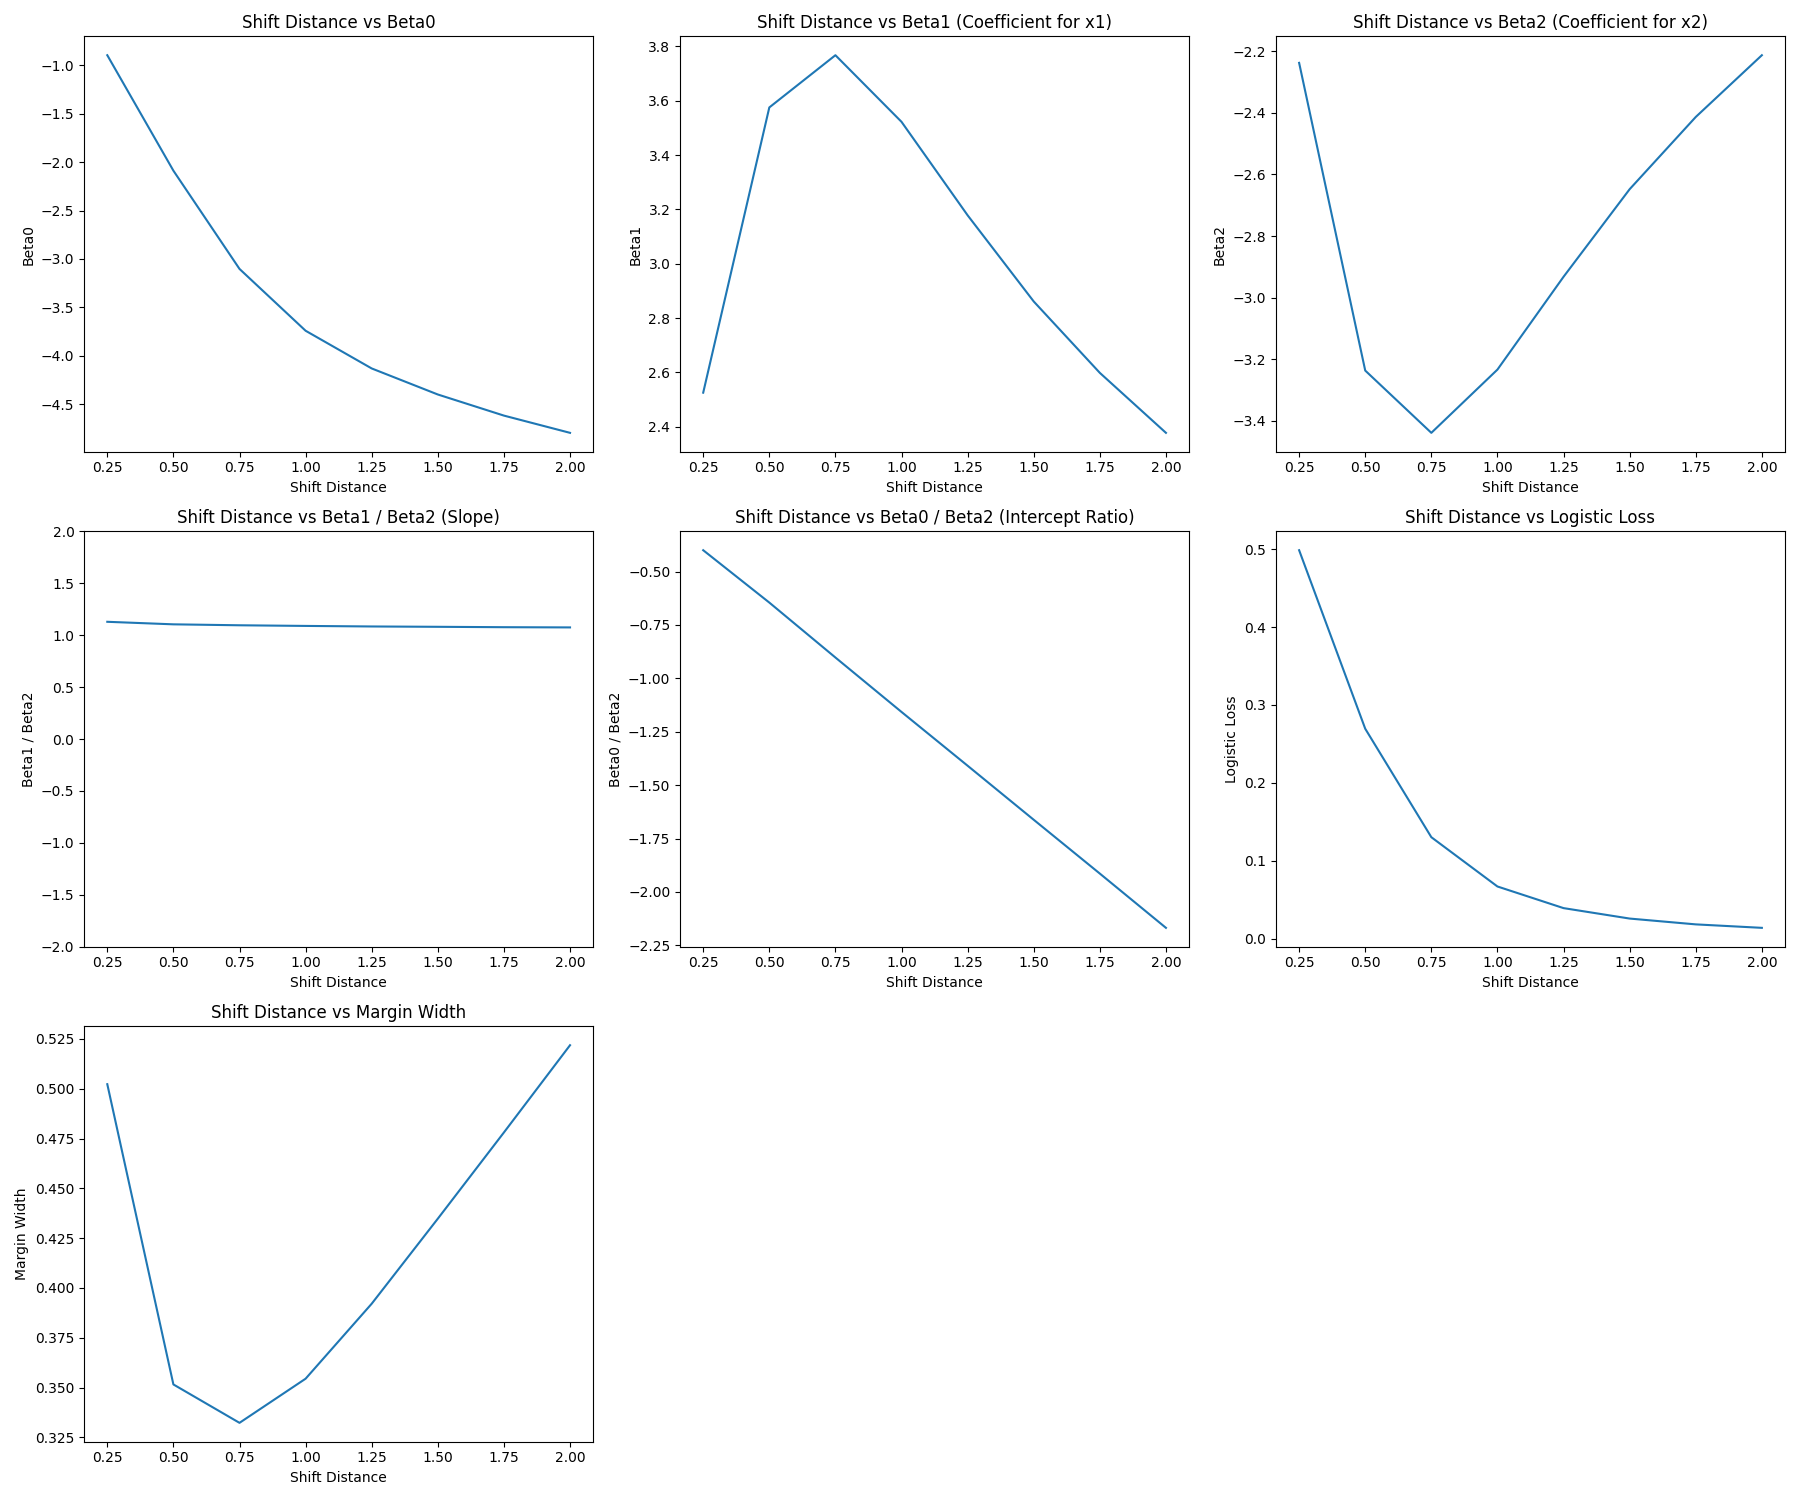
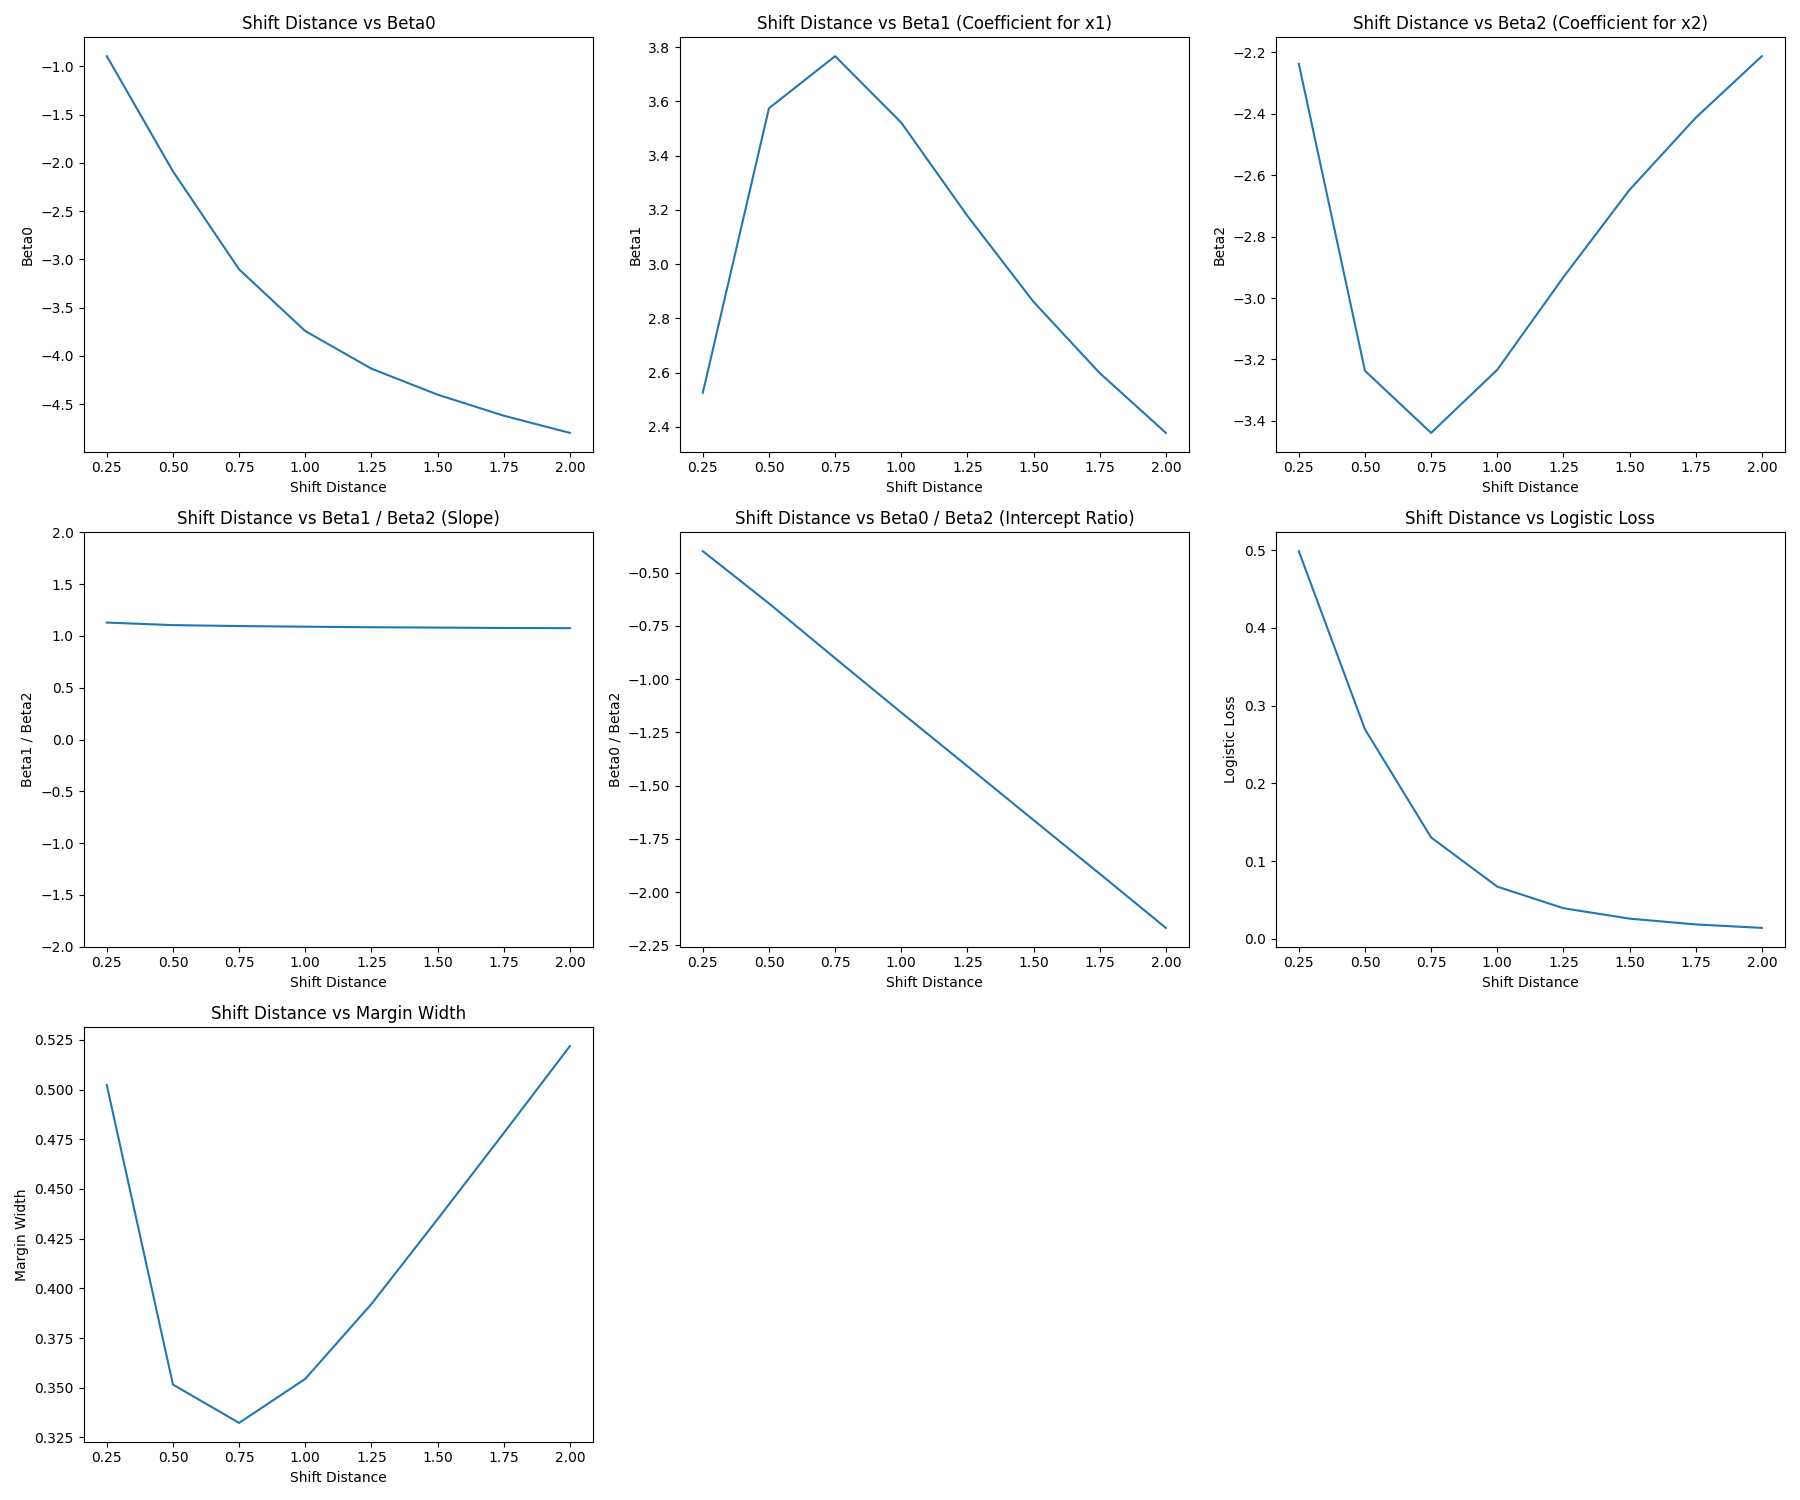
Updated axes

diff --git a/logistic_regression.py b/logistic_regression.py
@@ -1,4 +1,6 @@
 import numpy as np
+import matplotlib
+matplotlib.use('Agg')  # Use non-interactive backend for Flask compatibility
 import matplotlib.pyplot as plt
 from sklearn.linear_model import LogisticRegression
 from scipy.spatial.distance import cdist
